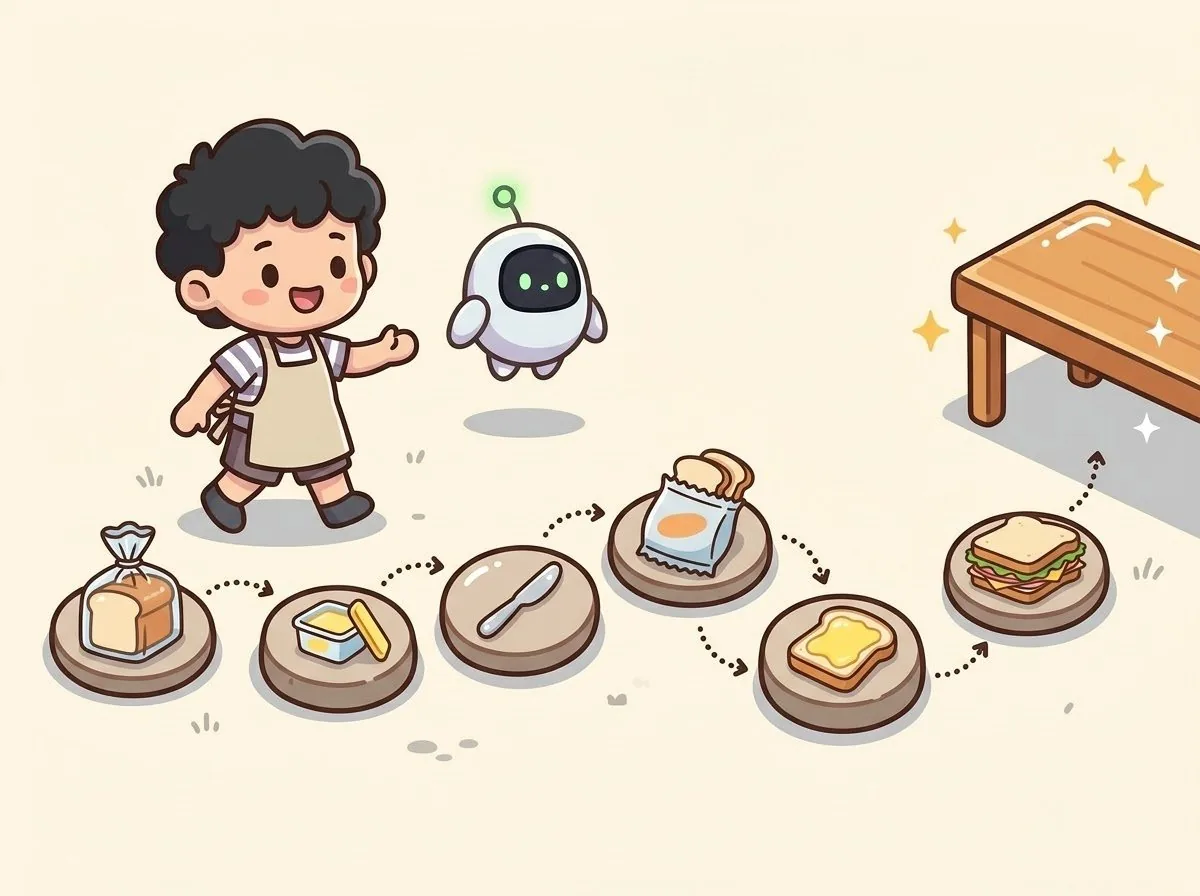
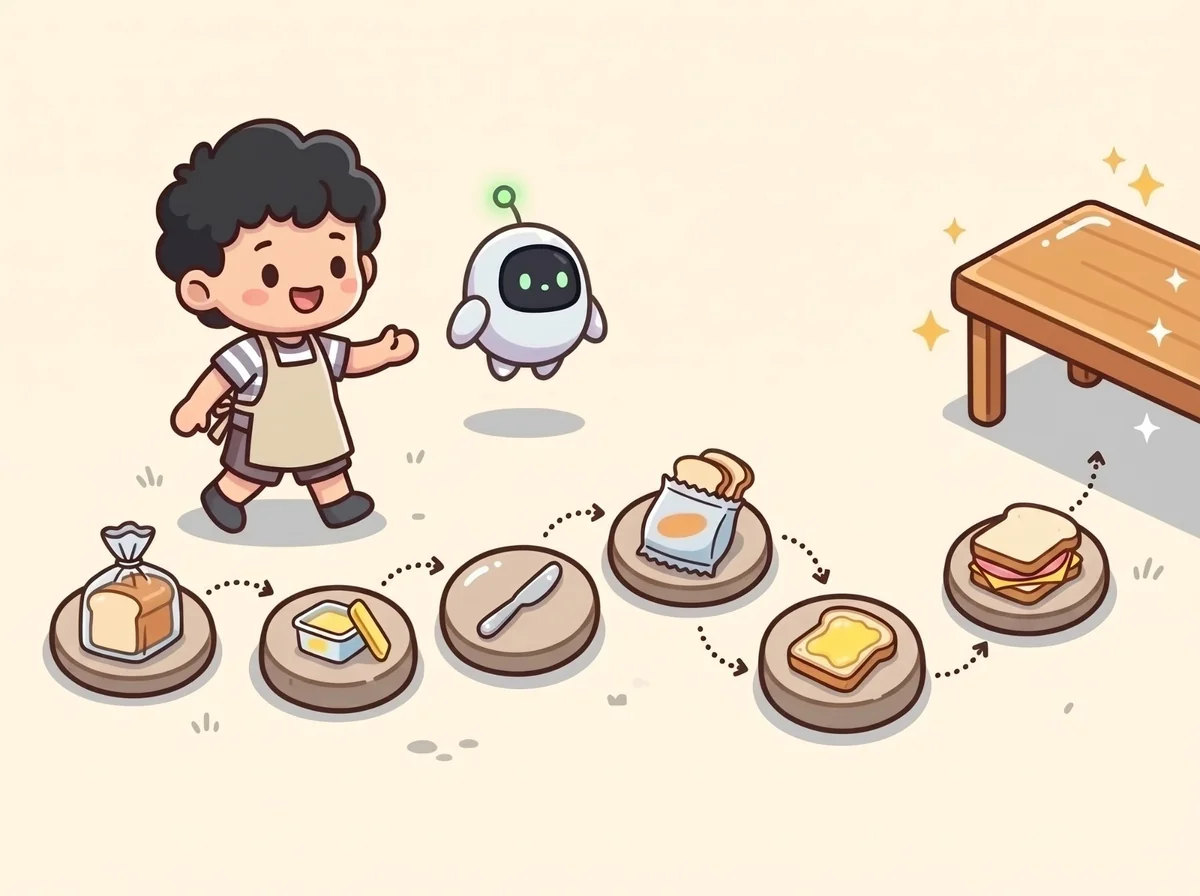
Sanduíche sem alface: level1 e lição 5
Claude-Session: https://claude.ai/code/session_01Bsh6piozmz16a6ATAsBfSm

diff --git a/index.html b/index.html
@@ -11,7 +11,7 @@
       href="https://fonts.googleapis.com/css2?family=Fredoka:wght@500;700&family=Nunito:wght@600;800&display=swap"
       rel="stylesheet"
     />
-    <link rel="stylesheet" href="style.css?v=202611110727" />
+    <link rel="stylesheet" href="style.css?v=202611110728" />
   </head>
   <body>
     <div id="stage">
@@ -572,17 +572,17 @@
          das cartas numa região, explicações de erro em outra -->
     <div class="sr leitor-avisos" aria-live="polite"></div>
     <div class="sr leitor-explicacao" aria-live="polite"></div>
-    <script src="js/motor.js?v=202611110727"></script>
-    <script src="js/comum.js?v=202611110727"></script>
-    <script src="js/situacoes.js?v=202611110727"></script>
-    <script src="js/em-progresso.js?v=202611110727"></script>
-    <script src="js/som.js?v=202611110727"></script>
-    <script src="js/progresso.js?v=202611110727"></script>
-    <script src="js/perfil.js?v=202611110727"></script>
-    <script src="js/arrasto.js?v=202611110727"></script>
-    <script src="js/conclusao.js?v=202611110727"></script>
-    <script src="js/montagem.js?v=202611110727"></script>
-    <script src="js/jogo.js?v=202611110727"></script>
-    <script src="js/app.js?v=202611110727"></script>
+    <script src="js/motor.js?v=202611110728"></script>
+    <script src="js/comum.js?v=202611110728"></script>
+    <script src="js/situacoes.js?v=202611110728"></script>
+    <script src="js/em-progresso.js?v=202611110728"></script>
+    <script src="js/som.js?v=202611110728"></script>
+    <script src="js/progresso.js?v=202611110728"></script>
+    <script src="js/perfil.js?v=202611110728"></script>
+    <script src="js/arrasto.js?v=202611110728"></script>
+    <script src="js/conclusao.js?v=202611110728"></script>
+    <script src="js/montagem.js?v=202611110728"></script>
+    <script src="js/jogo.js?v=202611110728"></script>
+    <script src="js/app.js?v=202611110728"></script>
   </body>
 </html>

diff --git a/editor.html b/editor.html
@@ -8,8 +8,8 @@
       href="https://fonts.googleapis.com/css2?family=Fredoka:wght@500;700&family=Nunito:wght@600;800&display=swap"
       rel="stylesheet"
     />
-    <link rel="stylesheet" href="style.css?v=202611110727" />
-    <link rel="stylesheet" href="editor.css?v=202611110727" />
+    <link rel="stylesheet" href="style.css?v=202611110728" />
+    <link rel="stylesheet" href="editor.css?v=202611110728" />
   </head>
   <body class="editor">
     <!-- ================== O EDITOR ================== -->
@@ -474,16 +474,16 @@
     <script>
       window.ALGORITIMANDO_PREVIA = true;
     </script>
-    <script src="js/motor.js?v=202611110727"></script>
-    <script src="js/comum.js?v=202611110727"></script>
-    <script src="js/som.js?v=202611110727"></script>
-    <script src="js/progresso.js?v=202611110727"></script>
-    <script src="js/perfil.js?v=202611110727"></script>
-    <script src="js/arrasto.js?v=202611110727"></script>
-    <script src="js/conclusao.js?v=202611110727"></script>
-    <script src="js/montagem.js?v=202611110727"></script>
-    <script src="js/jogo.js?v=202611110727"></script>
-    <script src="js/situacoes.js?v=202611110727"></script>
-    <script src="js/editor.js?v=202611110727"></script>
+    <script src="js/motor.js?v=202611110728"></script>
+    <script src="js/comum.js?v=202611110728"></script>
+    <script src="js/som.js?v=202611110728"></script>
+    <script src="js/progresso.js?v=202611110728"></script>
+    <script src="js/perfil.js?v=202611110728"></script>
+    <script src="js/arrasto.js?v=202611110728"></script>
+    <script src="js/conclusao.js?v=202611110728"></script>
+    <script src="js/montagem.js?v=202611110728"></script>
+    <script src="js/jogo.js?v=202611110728"></script>
+    <script src="js/situacoes.js?v=202611110728"></script>
+    <script src="js/editor.js?v=202611110728"></script>
   </body>
 </html>

diff --git a/PROMPTS-CENAS.md b/PROMPTS-CENAS.md
@@ -257,7 +257,7 @@ Style: cute flat cartoon illustration for a children's educational game (ages 8 
 
 ## Sanduíche sem alface (correções)
 
-O chamado do sanduíche usa só pão, manteiga, queijo e presunto, mas quatro imagens antigas mostravam alface. **Já corrigidas:** `win1` e `sanduiche-4`. **Faltam:** `level1` e `sanduiche-5`. São **edições**: anexe a própria imagem e peça só a troca do sanduíche. Salve com o mesmo nome. Se o gerador mudar mais coisas, peça de novo com "change only the sandwich".
+O chamado do sanduíche usa só pão, manteiga, queijo e presunto, mas quatro imagens antigas mostravam alface. **Já corrigidas:** as quatro. Os prompts ficam como registro. São **edições**: anexe a própria imagem e peça só a troca do sanduíche. Salve com o mesmo nome. Se o gerador mudar mais coisas, peça de novo com "change only the sandwich".
 
 ### `level1.webp` — fundo do nível (o balão de pensamento)
 
